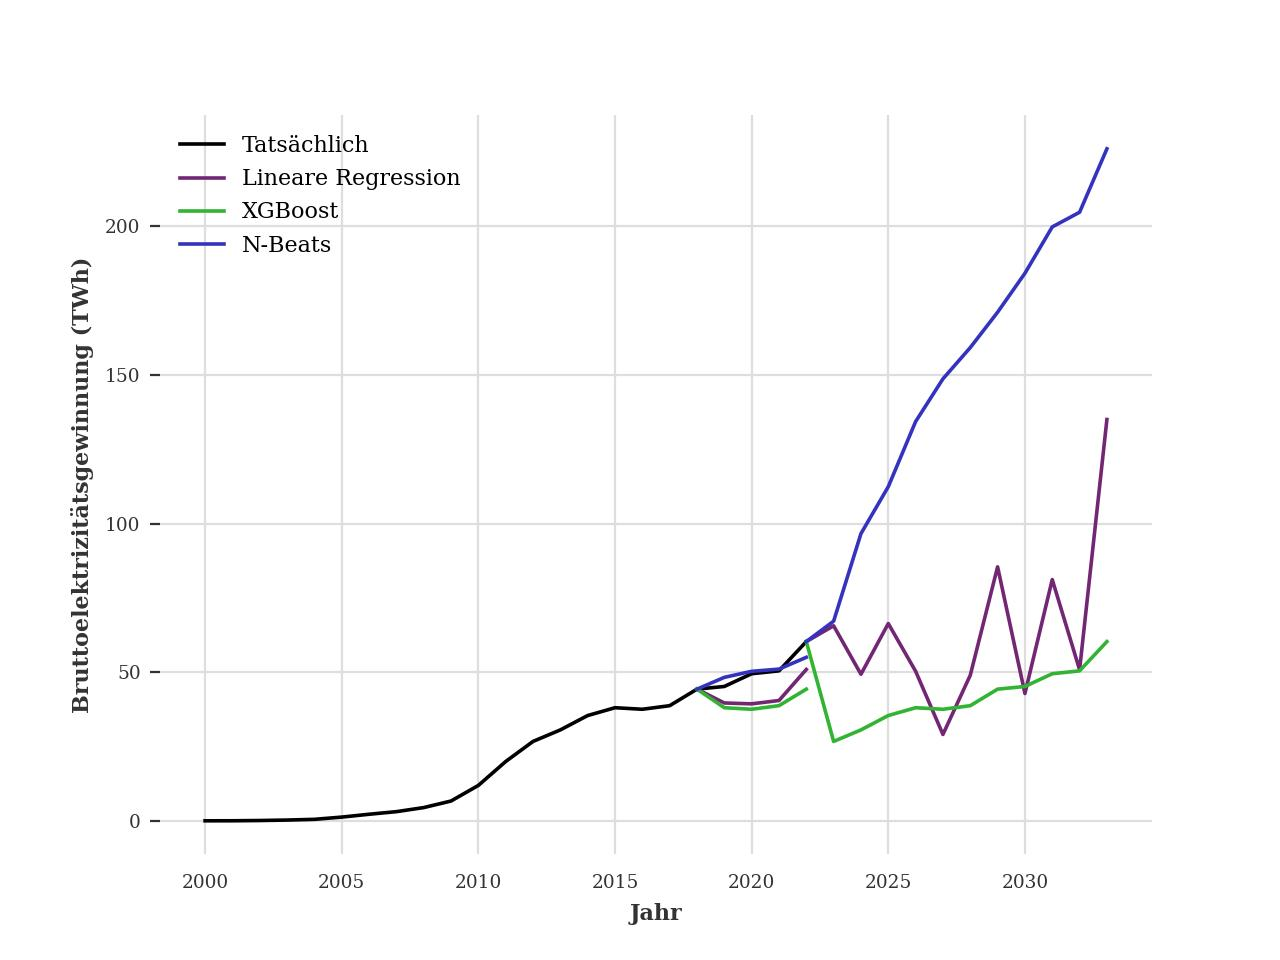
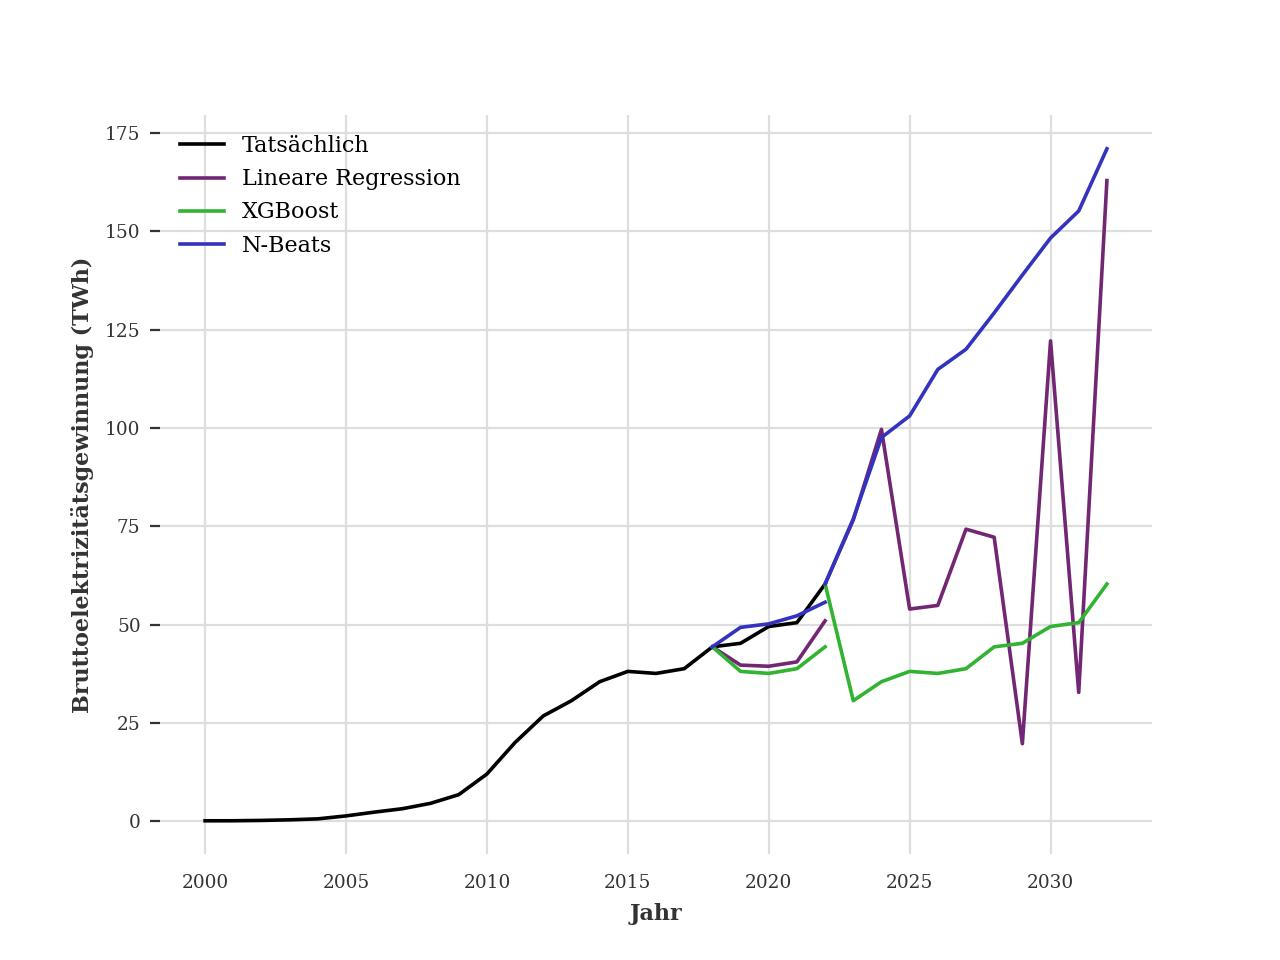
run model for 10y prediction

diff --git a/runmodels.py b/runmodels.py
@@ -87,7 +87,7 @@ plt.rcParams["font.size"] = "8"
 
 if __name__ == "__main__":
     [m.fit_test(4, (0,4)) for m in models]
-    [m.fit(11, 4, (0,4), output_chunk_len=11) for m in models]
+    [m.fit(10, 4, (0,4), output_chunk_len=10) for m in models]
     testPredictions = [m.predict_test() for m in models]
     predictions = [m.predict() for m in models]
     testDfs = [p.pd_series() for p in testPredictions]
